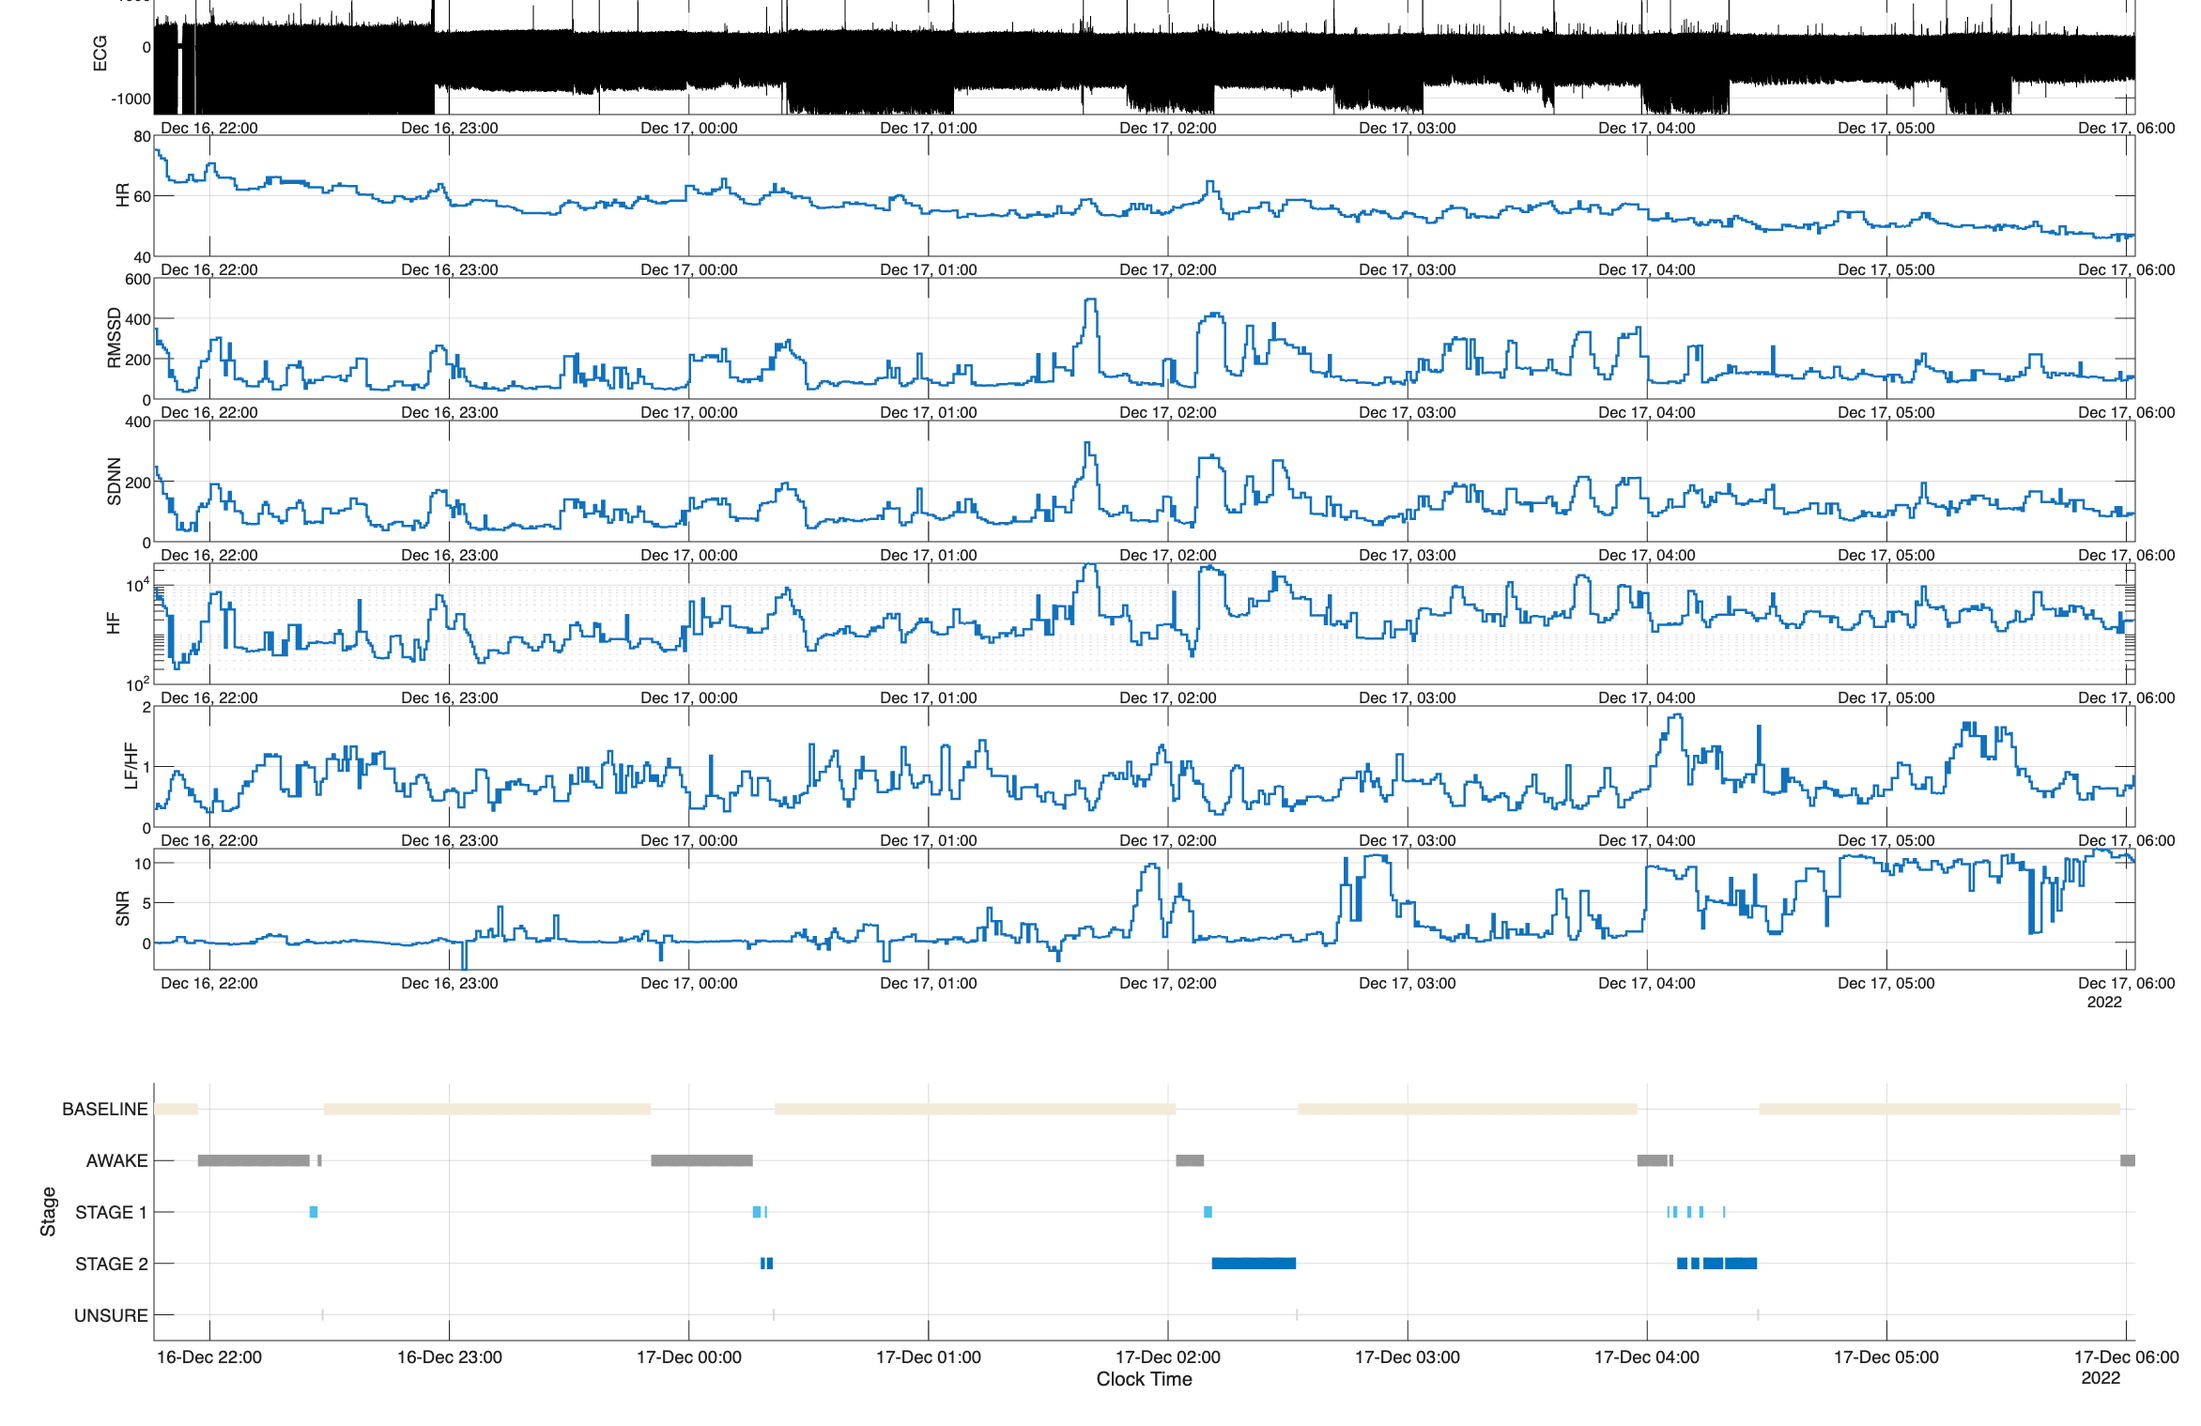
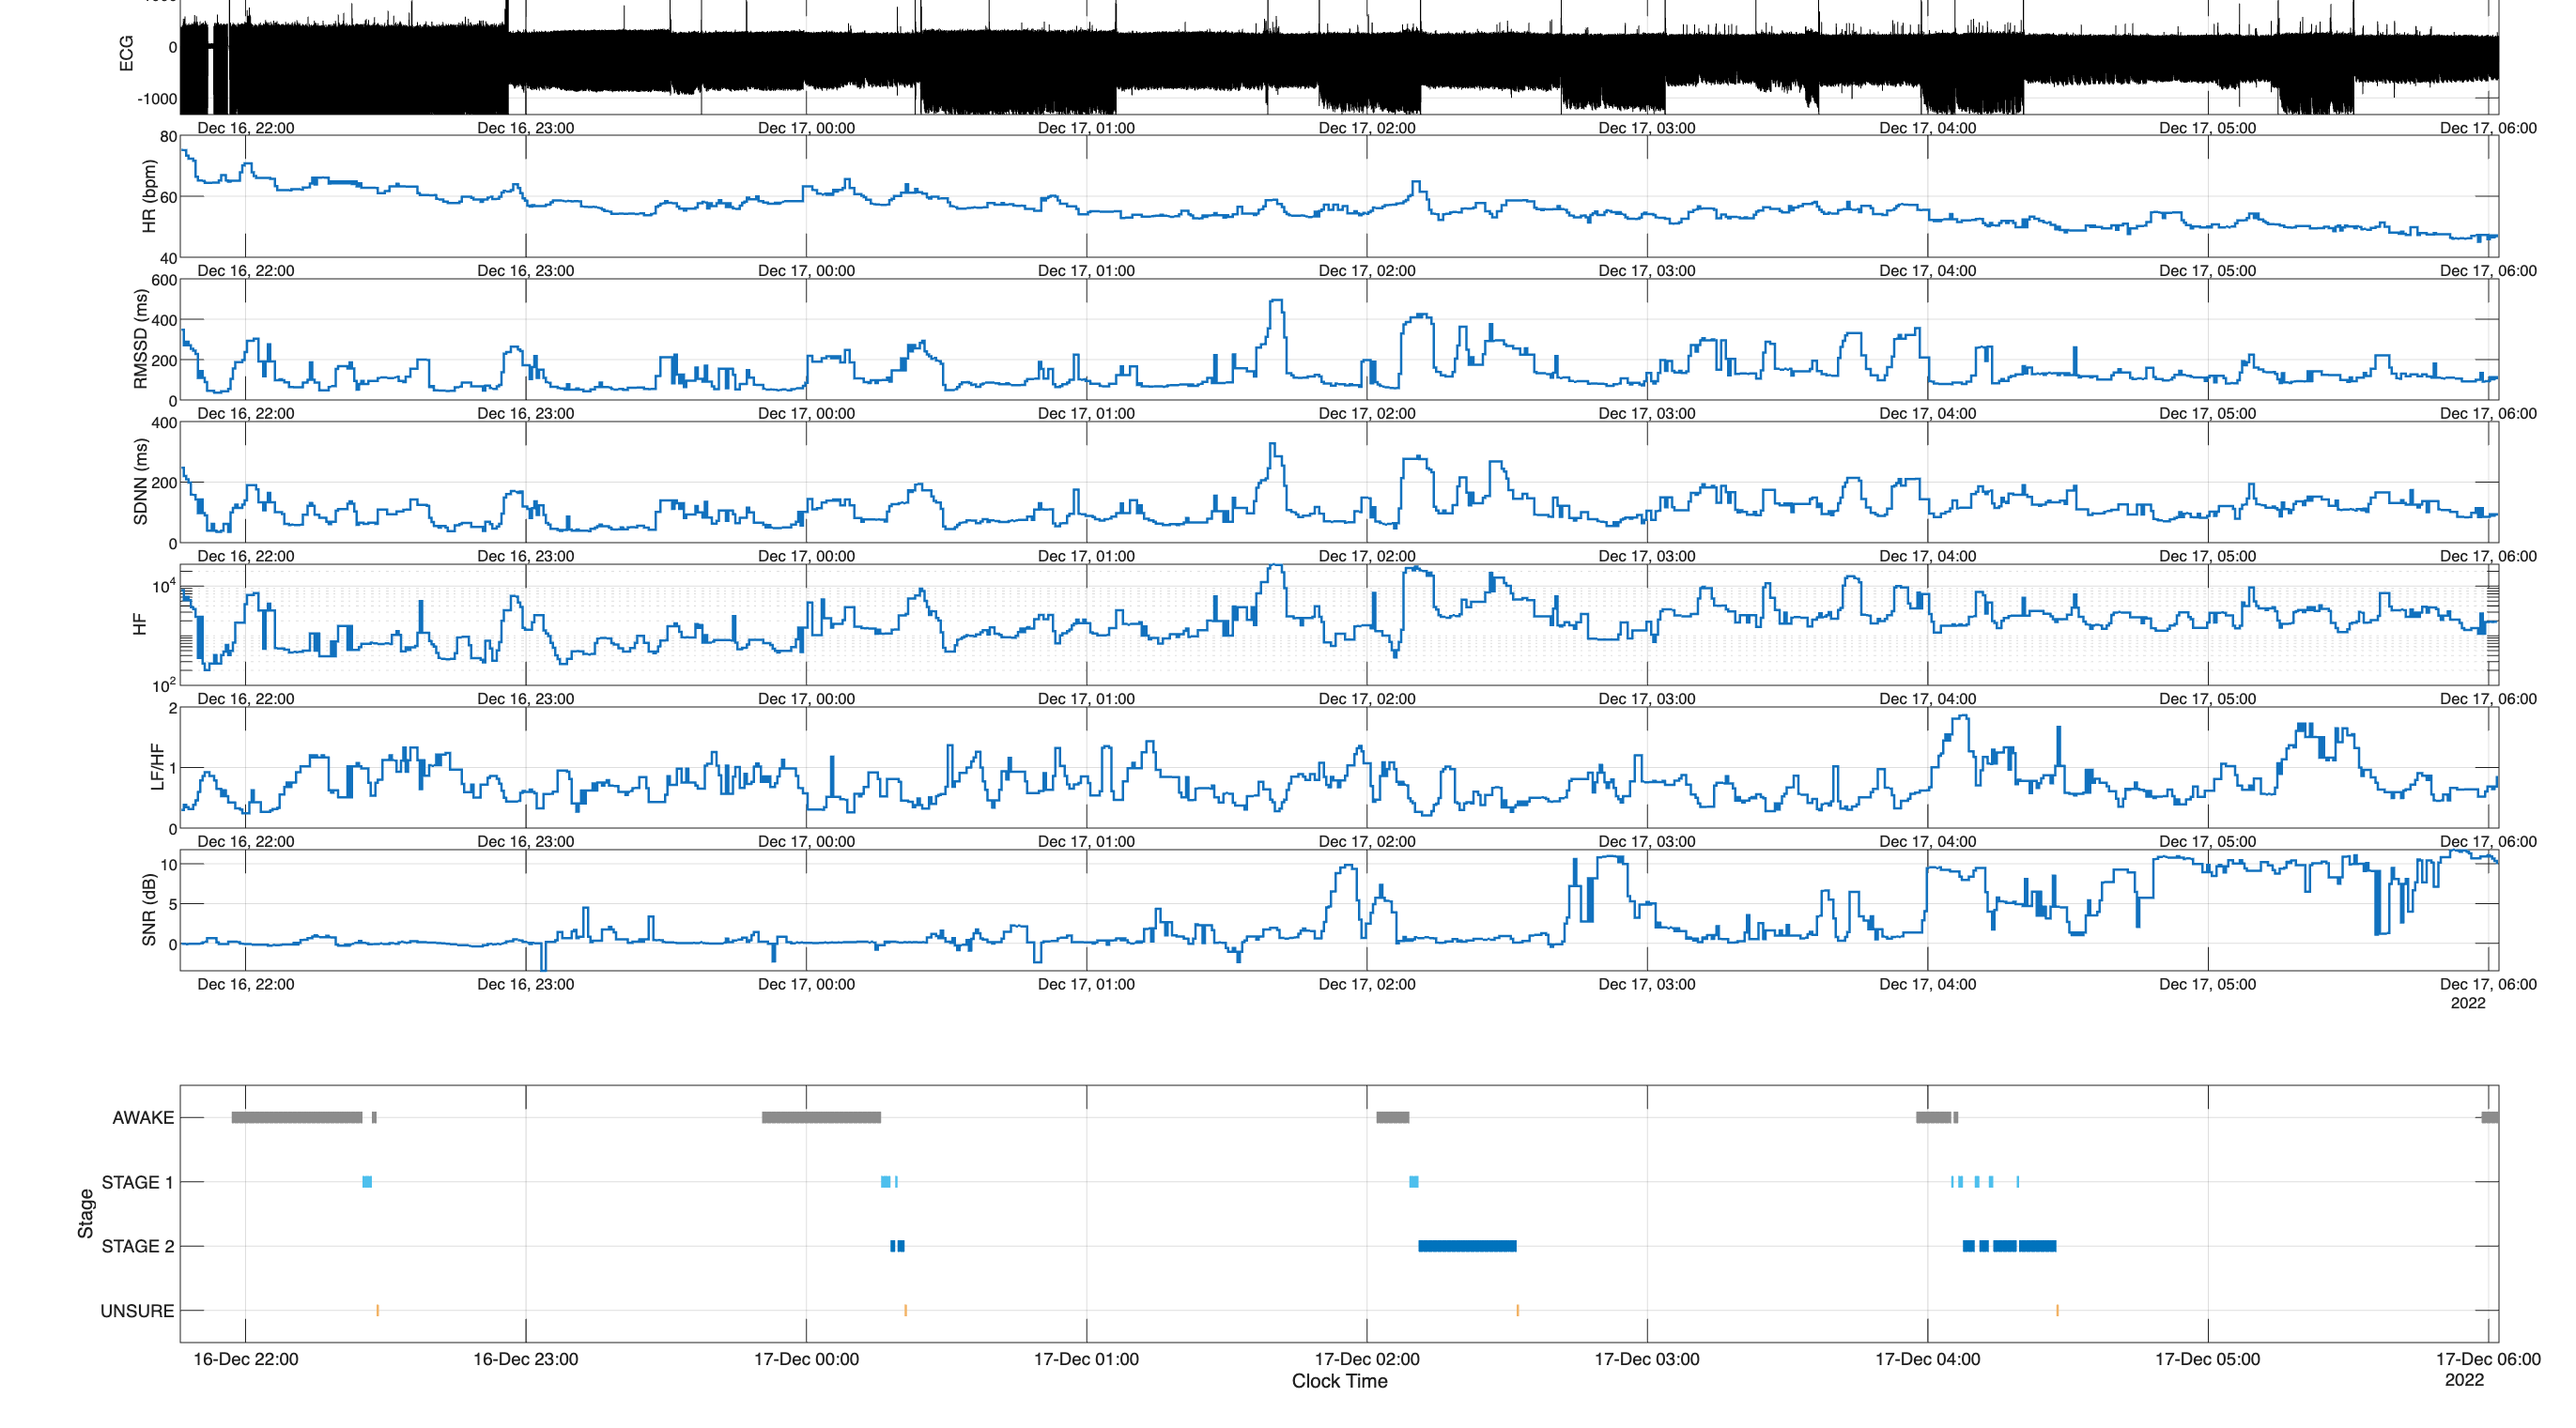
change figure size

diff --git a/utils/plot_ecg_features_over_time.m b/utils/plot_ecg_features_over_time.m
@@ -51,7 +51,7 @@ LFHF    = medfilt1(LFHF,k,'omitnan','truncate');
 SNR     = medfilt1(SNR,k,'omitnan','truncate');
 
 %% ========================= FIGURE 1 =========================
-figure('Color','w','Position',[100 60 1500 1050]);
+figure('Color','w','Position',[100 60 1500 1300]);  
 
 left = 0.07; width = 0.90; h = 0.085; gap = 0.015; y = 0.92;
 ax = gobjects(8,1);
